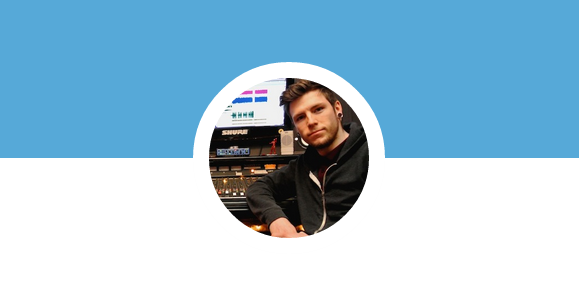
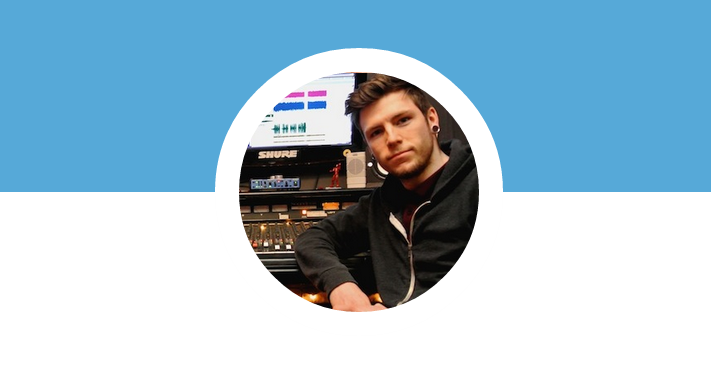
added plugmedia thumbnail

Changed region(s): [[0.0, 0.1169, 1.0, 0.8474]]

diff --git a/app/scripts/controllers/portfolio.js b/app/scripts/controllers/portfolio.js
@@ -9,7 +9,7 @@ angular.module('app')
       	'desc':'A website for a Dublin based digital media company Lorem ipsum dolor sit amet, consectetur adipisicing.',
       	'url':'plugmedia',
         'liveUrl':'//www.plugmedia.ie',
-        'image':'../../images/landscape.png'
+        'image':'../../images/plugmedia/thumb.png'
       },
       {
       	'name':'Peter Ashmore', 
